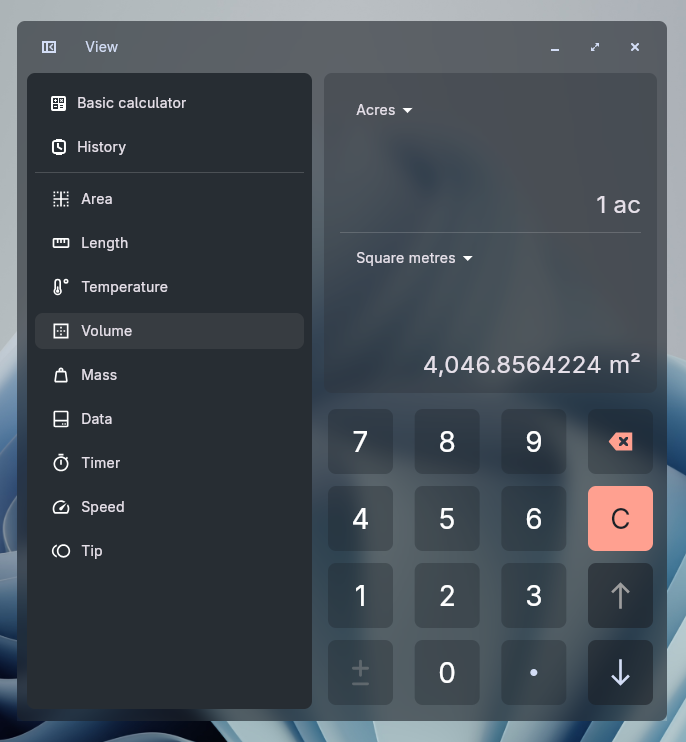
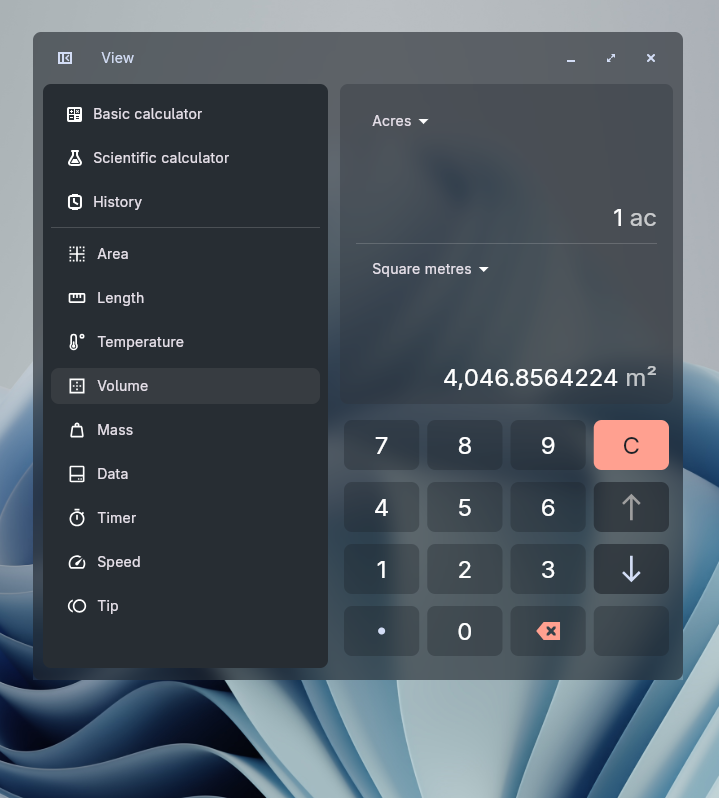
docs: update screenshots and add missing navbar entry

diff --git a/calculator_app_redesign/lib/widgets/nav_bar.dart b/calculator_app_redesign/lib/widgets/nav_bar.dart
@@ -38,6 +38,16 @@ class NavBar extends StatelessWidget {
             ),
           ),
           NavBarItem(
+            isActive: true,
+            child: Row(
+              spacing: 10,
+              children: [
+                CompDrawSvg(iconName: "science"),
+                Text("Scientific calculator"),
+              ],
+            ),
+          ),
+          NavBarItem(
             // isActive: true,
             child: Row(
               spacing: 10,
@@ -53,7 +63,7 @@ class NavBar extends StatelessWidget {
             final option = entry.value;
 
             return NavBarItem(
-              isActive: index == optionIndex,
+              // isActive: index == optionIndex,
               child: Row(
                 spacing: 10,
                 children: [

diff --git a/calculator_app_redesign/lib/pages/main_page.dart b/calculator_app_redesign/lib/pages/main_page.dart
@@ -18,9 +18,9 @@ class MainPage extends StatelessWidget {
 
   @override
   Widget build(BuildContext context) {
-    final bool navbarVisible = false;
-    final currentView = CalcView.other;
-    final optionIndex = 2;
+    final bool navbarVisible = true;
+    final currentView = CalcView.scientific;
+    final optionIndex = 0;
     late Widget view;
     late double colHeight;
     String viewLabel = "";
